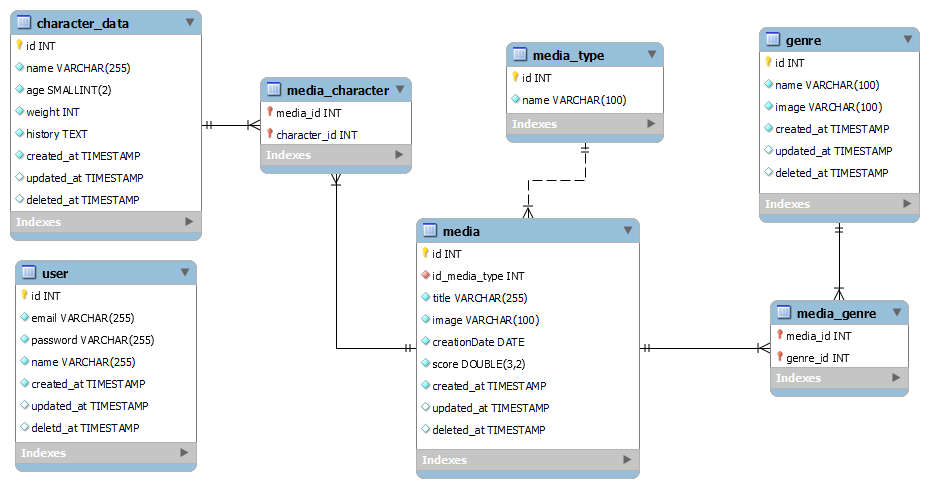
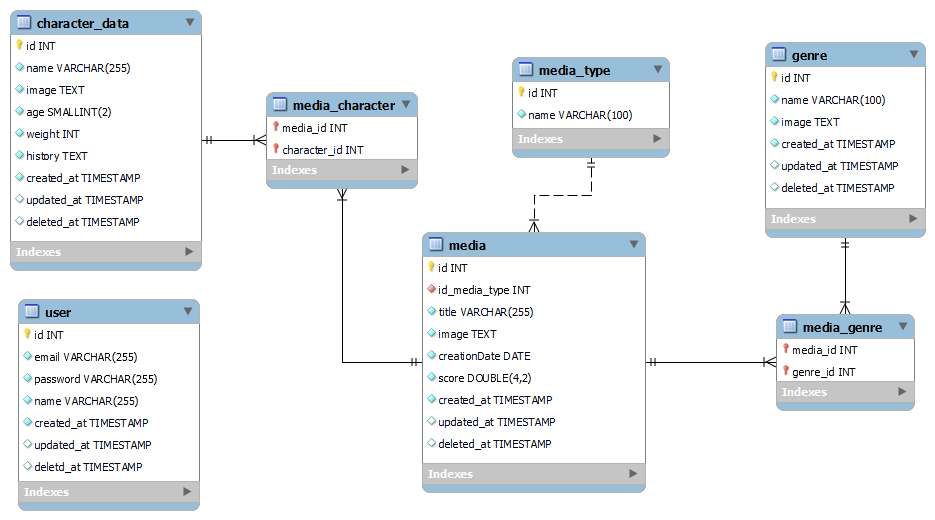
Adding genres to movie endpoints: create and update, update of DB model to allow large image URLs and allow bigger scores

diff --git a/backend/controllers/media.js b/backend/controllers/media.js
@@ -24,7 +24,7 @@ async function getAll(req, res) {
 	try {
 		const medias = await media.findAll({
 			where,
-      order: [orderInfo],
+			order: [orderInfo],
 			include: [
 				{
 					model: media_character,
@@ -112,8 +112,9 @@ async function create(req, res) {
 	const transaction = await req.sequelize.transaction();
 
 	try {
-		const { character_data, media_character, media } = req.models;
-		const { characterInfo, mediaInfo } = req.body;
+		const { character_data, media_character, media, media_genre, genre } =
+			req.models;
+		const { characterInfo, mediaInfo, genreInfo } = req.body;
 
 		//Create the media
 		const mediaRecord = await media.create(mediaInfo);
@@ -133,6 +134,25 @@ async function create(req, res) {
 				await media_character.create({
 					media_id: characterRecord.id,
 					character_id: mediaRecord.id,
+				});
+			}
+		}
+
+		//Associate the media with every genre selected
+		if (genreInfo) {
+			for (let genreId of genreInfo) {
+				const genreRecord = await genre.findOne({
+					where: { id: genreId },
+				});
+
+				if (!genreRecord) {
+					throw new Error('Genre not found.');
+				}
+
+				//Create the media_genre association
+				await media_genre.create({
+					media_id: mediaRecord.id,
+					genre_id: genreRecord.id,
 				});
 			}
 		}
@@ -157,9 +177,10 @@ async function updateById(req, res) {
 	const transaction = await req.sequelize.transaction();
 
 	try {
-		const { character_data, media_character, media } = req.models;
+		const { character_data, media_character, media, media_genre, genre } =
+			req.models;
 		const { id } = req.params;
-		const { characterInfo, mediaInfo } = req.body;
+		const { characterInfo, mediaInfo, genreInfo } = req.body;
 
 		//Update the media
 		const mediaRecord = await media.findOne({
@@ -191,6 +212,29 @@ async function updateById(req, res) {
 				await media_character.create({
 					media_id: characterRecord.id,
 					character_id: mediaRecord.id,
+				});
+			}
+		}
+
+		//Delete the media_genres
+		await media_genre.destroy({
+			where: { media_id: mediaRecord.id },
+		});
+
+		//Create new media_genre associations
+		if (genreInfo) {
+			for (let genreId of genreInfo) {
+				const genreRecord = await genre.findOne({
+					where: { id: genreId },
+				});
+
+				if (!genreRecord) {
+					throw new Error('Genre not found.');
+				}
+
+				await media_genre.create({
+					media_id: mediaRecord.id,
+					genre_id: genreRecord.id,
 				});
 			}
 		}

diff --git a/backend/models/media.js b/backend/models/media.js
@@ -23,7 +23,7 @@ export default class media extends Model {
       allowNull: false
     },
     image: {
-      type: DataTypes.STRING(100),
+      type: DataTypes.TEXT,
       allowNull: false
     },
     creationDate: {
@@ -31,7 +31,7 @@ export default class media extends Model {
       allowNull: false
     },
     score: {
-      type: DataTypes.DOUBLE(3,2),
+      type: DataTypes.DOUBLE(4,2),
       allowNull: false
     }
   }, {

diff --git a/backend/models/character_data.js b/backend/models/character_data.js
@@ -15,7 +15,7 @@ export default class character_data extends Model {
       allowNull: false
     },
     image: {
-      type: DataTypes.STRING(100),
+      type: DataTypes.TEXT,
       allowNull: false
     },
     age: {

diff --git a/backend/models/genre.js b/backend/models/genre.js
@@ -15,7 +15,7 @@ export default class genre extends Model {
       allowNull: false
     },
     image: {
-      type: DataTypes.STRING(100),
+      type: DataTypes.TEXT,
       allowNull: false
     }
   }, {
